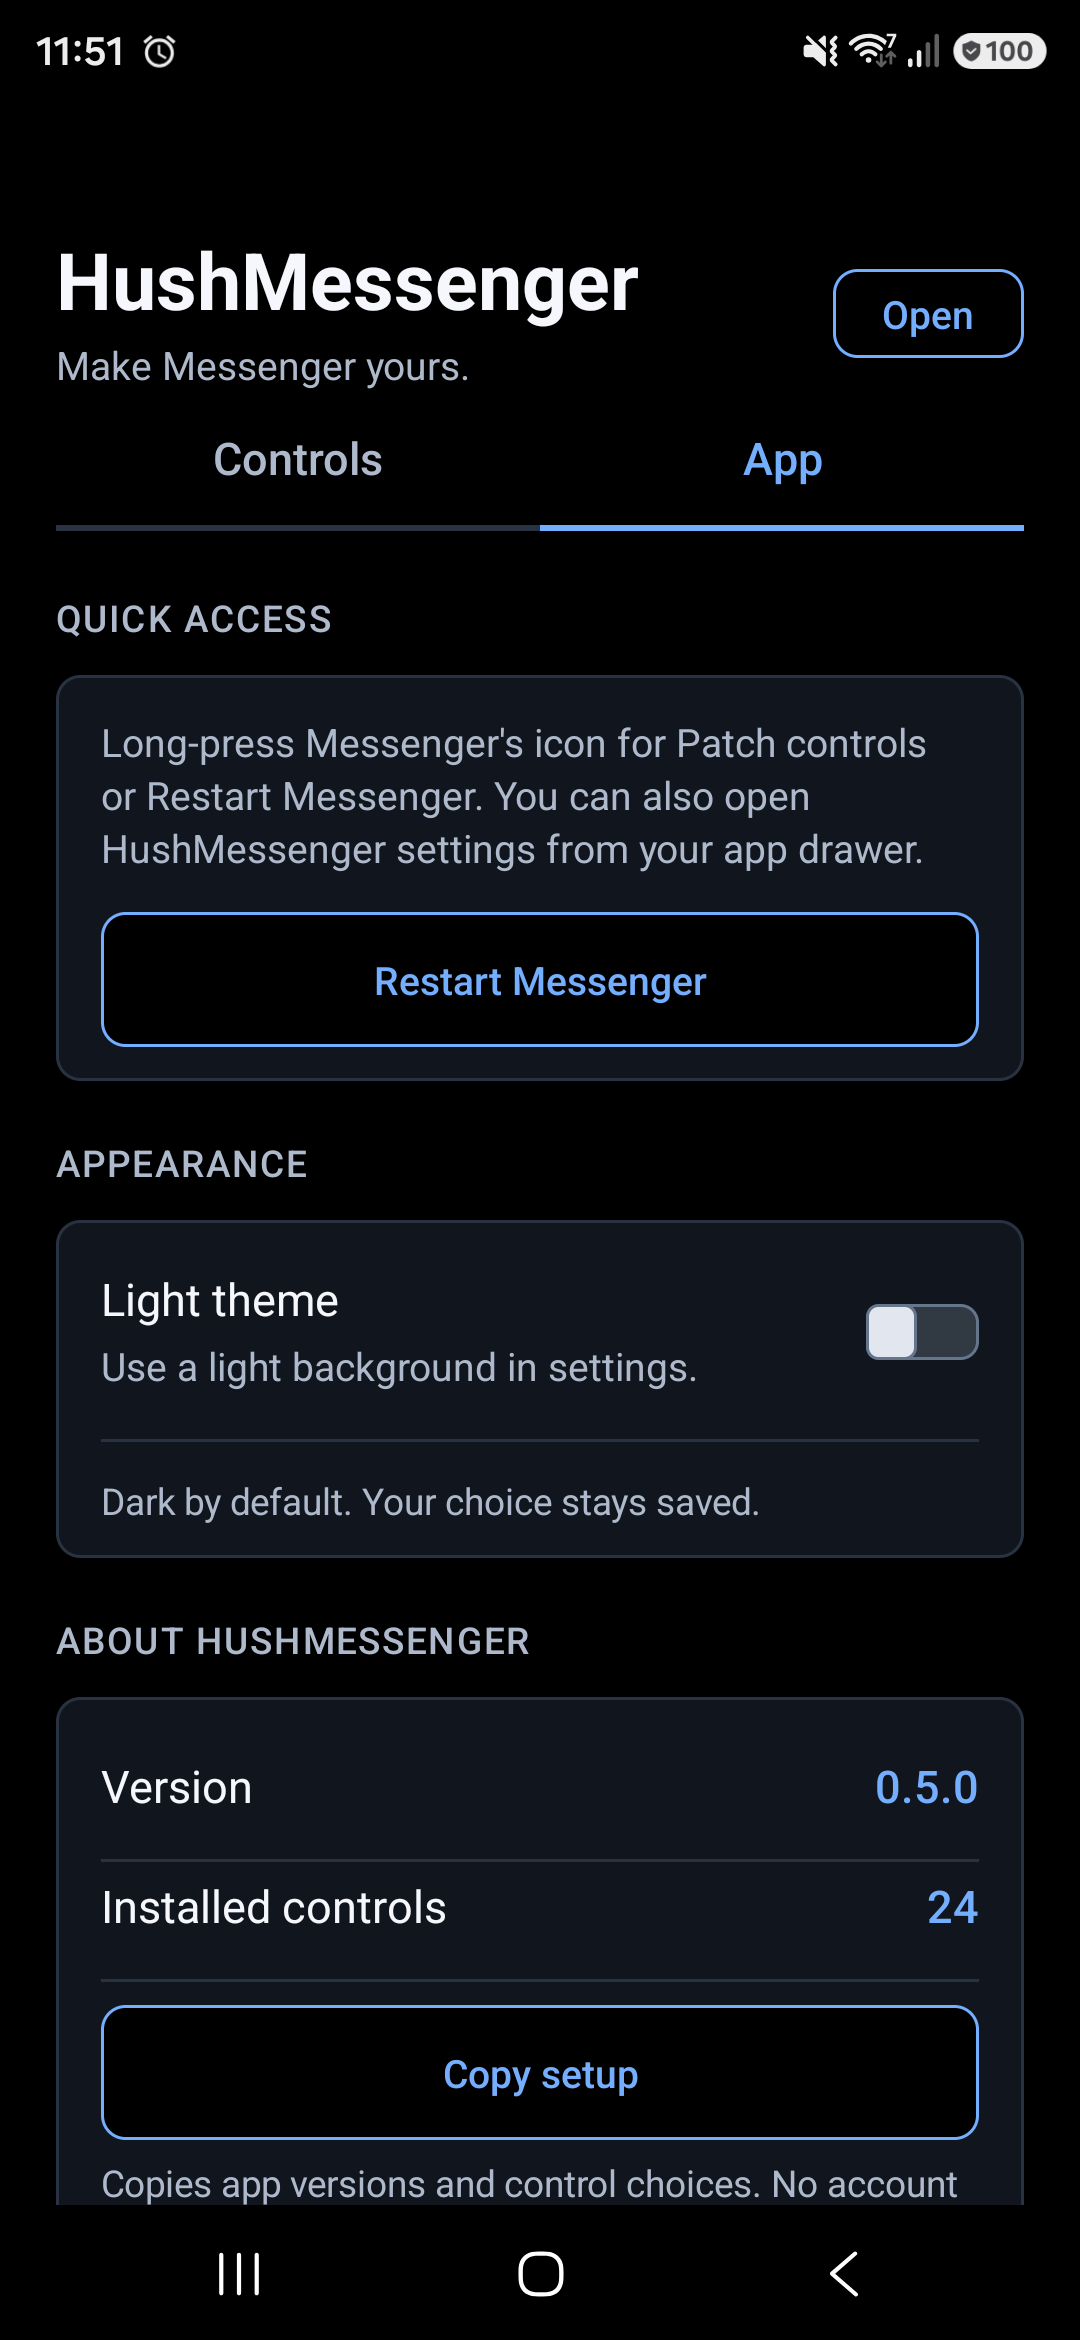
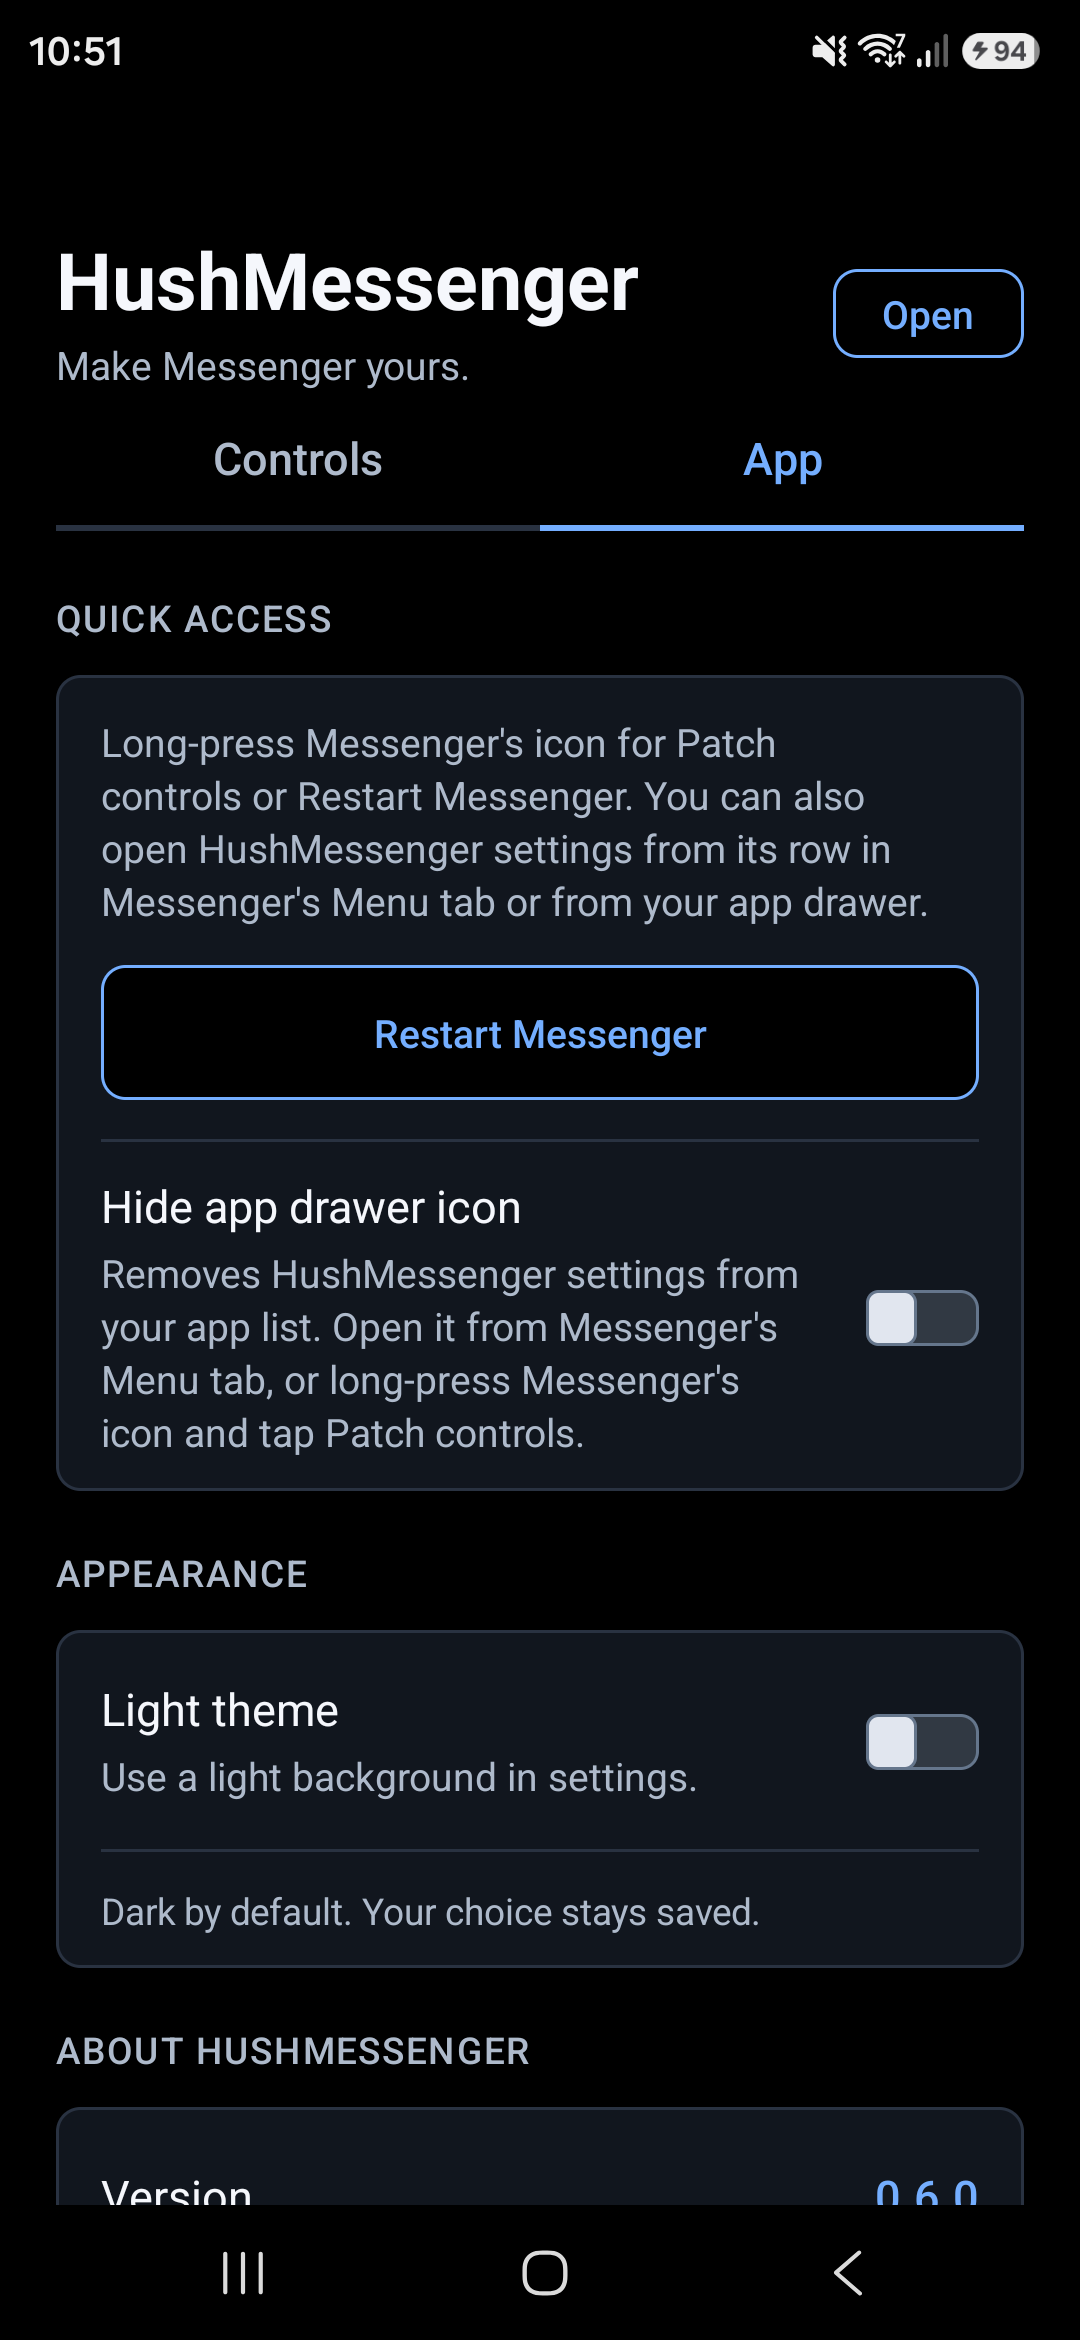
docs: show the 0.6.0 settings in the README screenshots
Recaptured on the S25 with the v0.6.0 build in both themes. The App tab now shows the Menu tab wording in Quick access and the Hide app drawer icon switch.

diff --git a/README.md b/README.md
@@ -101,7 +101,7 @@ Settings use stable page and category IDs, so changing the language keeps naviga
 The **App** tab starts with quick access and a restart button. Appearance and setup details follow. **Copy setup** copies the extension and host versions, Android version, pause state and each control's installed, selected and active flags. It excludes account details, chats, device identifiers and recovery material. Nothing is sent. You choose where to paste it. **Open** in the header returns to Messenger. Refreshing the source in Morphe downloads the patch bundle, but new controls only reach Messenger once you rebuild and install its APK.
 
 <p>
-  <img src="assets/settings-app-dark.png" width="300" alt="App tab in the dark theme with quick access and Restart Messenger">
+  <img src="assets/settings-app-dark.png" width="300" alt="App tab in the dark theme with quick access, Restart Messenger and Hide app drawer icon">
   <img src="assets/settings-app-light.png" width="300" alt="App tab in the light theme">
 </p>
 
